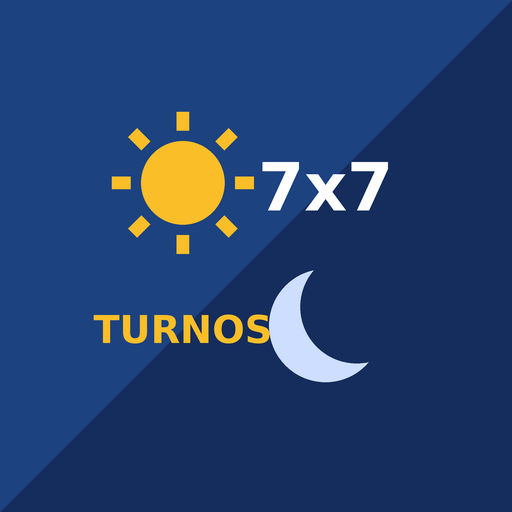
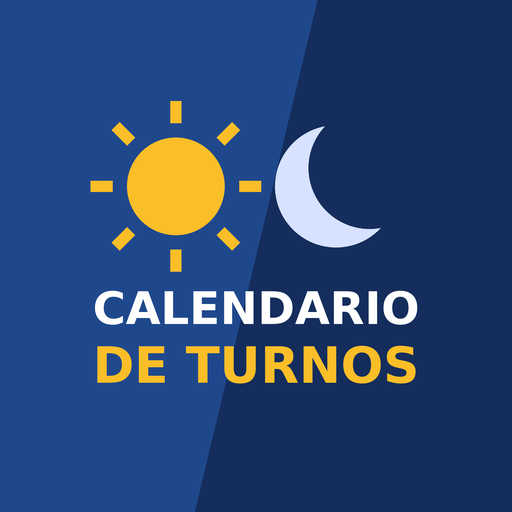
Nuevo ícono "Calendario de turnos" y aclarar que el 4x3 es solo de día
- Ícono con sol y luna y el texto "Calendario de turnos" (sin "7x7")
- El turno 4x3 se presenta como "solo de día" en Ajustes y en los textos

Claude-Session: https://claude.ai/code/session_011JTSrdMX6YCDz2NQ6g85Jr

diff --git a/js/app.js b/js/app.js
@@ -640,12 +640,12 @@ function viewResumen() {
 // Texto corto de una secuencia, p. ej. "turno 7x7, subes a la noche los martes"
 function seqText(q) {
   const w = dow(q.date);
-  if (q.pattern === '4x3') return `turno 4x3, de ${WD[w]} a ${WD[(w + 3) % 7]}`;
+  if (q.pattern === '4x3') return `turno 4x3 de día, de ${WD[w]} a ${WD[(w + 3) % 7]}`;
   return `turno 7x7, subes a la noche los ${WD[w]}`;
 }
 function seqTitle(q) {
   const w = dow(q.date);
-  if (q.pattern === '4x3') return `Turno 4x3: de ${WD[w]} a ${WD[(w + 3) % 7]}`;
+  if (q.pattern === '4x3') return `Turno 4x3 de día: de ${WD[w]} a ${WD[(w + 3) % 7]}`;
   return `Turno 7x7: subes a la noche los ${WD[w]}`;
 }
 
@@ -669,7 +669,7 @@ function stepsHTML(q) {
     const D = (k) => WD[(w + k) % 7];
     return `<ol class="steps">
       <li><b>${cap(D(0))}</b>: <b>subo</b> a faena y trabajo el 1er día.</li>
-      <li>${cap(D(1))} y ${D(2)}: turno de <b>día</b>.</li>
+      <li>${cap(D(1))} y ${D(2)}: turno de <b>día</b> (el 4x3 es solo de día, ${db.settings.dayStart}–${db.settings.dayEnd}).</li>
       <li><b>${cap(D(3))}</b>: último día; al terminar <b>bajo</b>.</li>
       <li>Descanso de ${D(4)} a ${D(6)} y vuelve a empezar.</li>
     </ol>`;
@@ -947,14 +947,14 @@ function renderAnchorSheet() {
     <div class="field"><span class="lbl">Tipo de turno</span>
       <div class="seg">
         <button data-action="anchor-pattern" data-v="7x7" class="${pattern === '7x7' ? 'on' : ''}">7x7 · día y noche</button>
-        <button data-action="anchor-pattern" data-v="4x3" class="${pattern === '4x3' ? 'on' : ''}">4x3 · 4 días</button>
+        <button data-action="anchor-pattern" data-v="4x3" class="${pattern === '4x3' ? 'on' : ''}">4x3 · solo día</button>
       </div></div>
     <div class="field"><span class="lbl">${pattern === '4x3' ? '¿Qué día comienzas (subes)?' : '¿Qué día subes al turno de noche?'}</span>
       <div class="seg">
         ${quick.map(([v, l]) => `<button data-action="anchor-wd" data-v="${v}" class="${w === v ? 'on' : ''}">${l}</button>`).join('')}
         <button data-action="anchor-other" class="${other ? 'on' : ''}">${other ? `Otro: ${WD[w]}` : 'Otro día'}</button>
       </div>
-      ${pattern === '4x3' ? `<span class="small muted">Trabajas de ${WD[w]} a ${WD[(w + 3) % 7]} y descansas de ${WD[(w + 4) % 7]} a ${WD[(w + 6) % 7]}.</span>` : ''}</div>
+      ${pattern === '4x3' ? `<span class="small muted">Turno solo de día ☀: trabajas de ${WD[w]} a ${WD[(w + 3) % 7]} y descansas de ${WD[(w + 4) % 7]} a ${WD[(w + 6) % 7]}.</span>` : ''}</div>
     <div class="field"><label for="anchorDate">${pattern === '4x3' ? 'Fecha de tu primer día de trabajo' : 'Fecha en que subes al turno de noche'}</label>
       <input class="input" type="date" id="anchorDate" value="${date}"></div>
     <div class="field"><span class="lbl">¿Desde cuándo aplica?</span>

diff --git a/sw.js b/sw.js
@@ -1,5 +1,5 @@
 /* Service worker: permite usar Turnos sin conexión */
-const CACHE = 'turnos7x7-v3';
+const CACHE = 'turnos7x7-v4';
 const ASSETS = [
   './',
   './index.html',

diff --git a/README.md b/README.md
@@ -16,7 +16,7 @@ Calendario de turnos editable para iPhone: **7x7** (día y noche) o **4x3** (4 d
 
 La referencia es el martes 6 de enero de 2026 (inicio de noche).
 
-## Turno 4x3 (ciclo de 7 días)
+## Turno 4x3 (solo de día, ciclo de 7 días)
 
 | Día | Qué pasa |
 |---|---|
